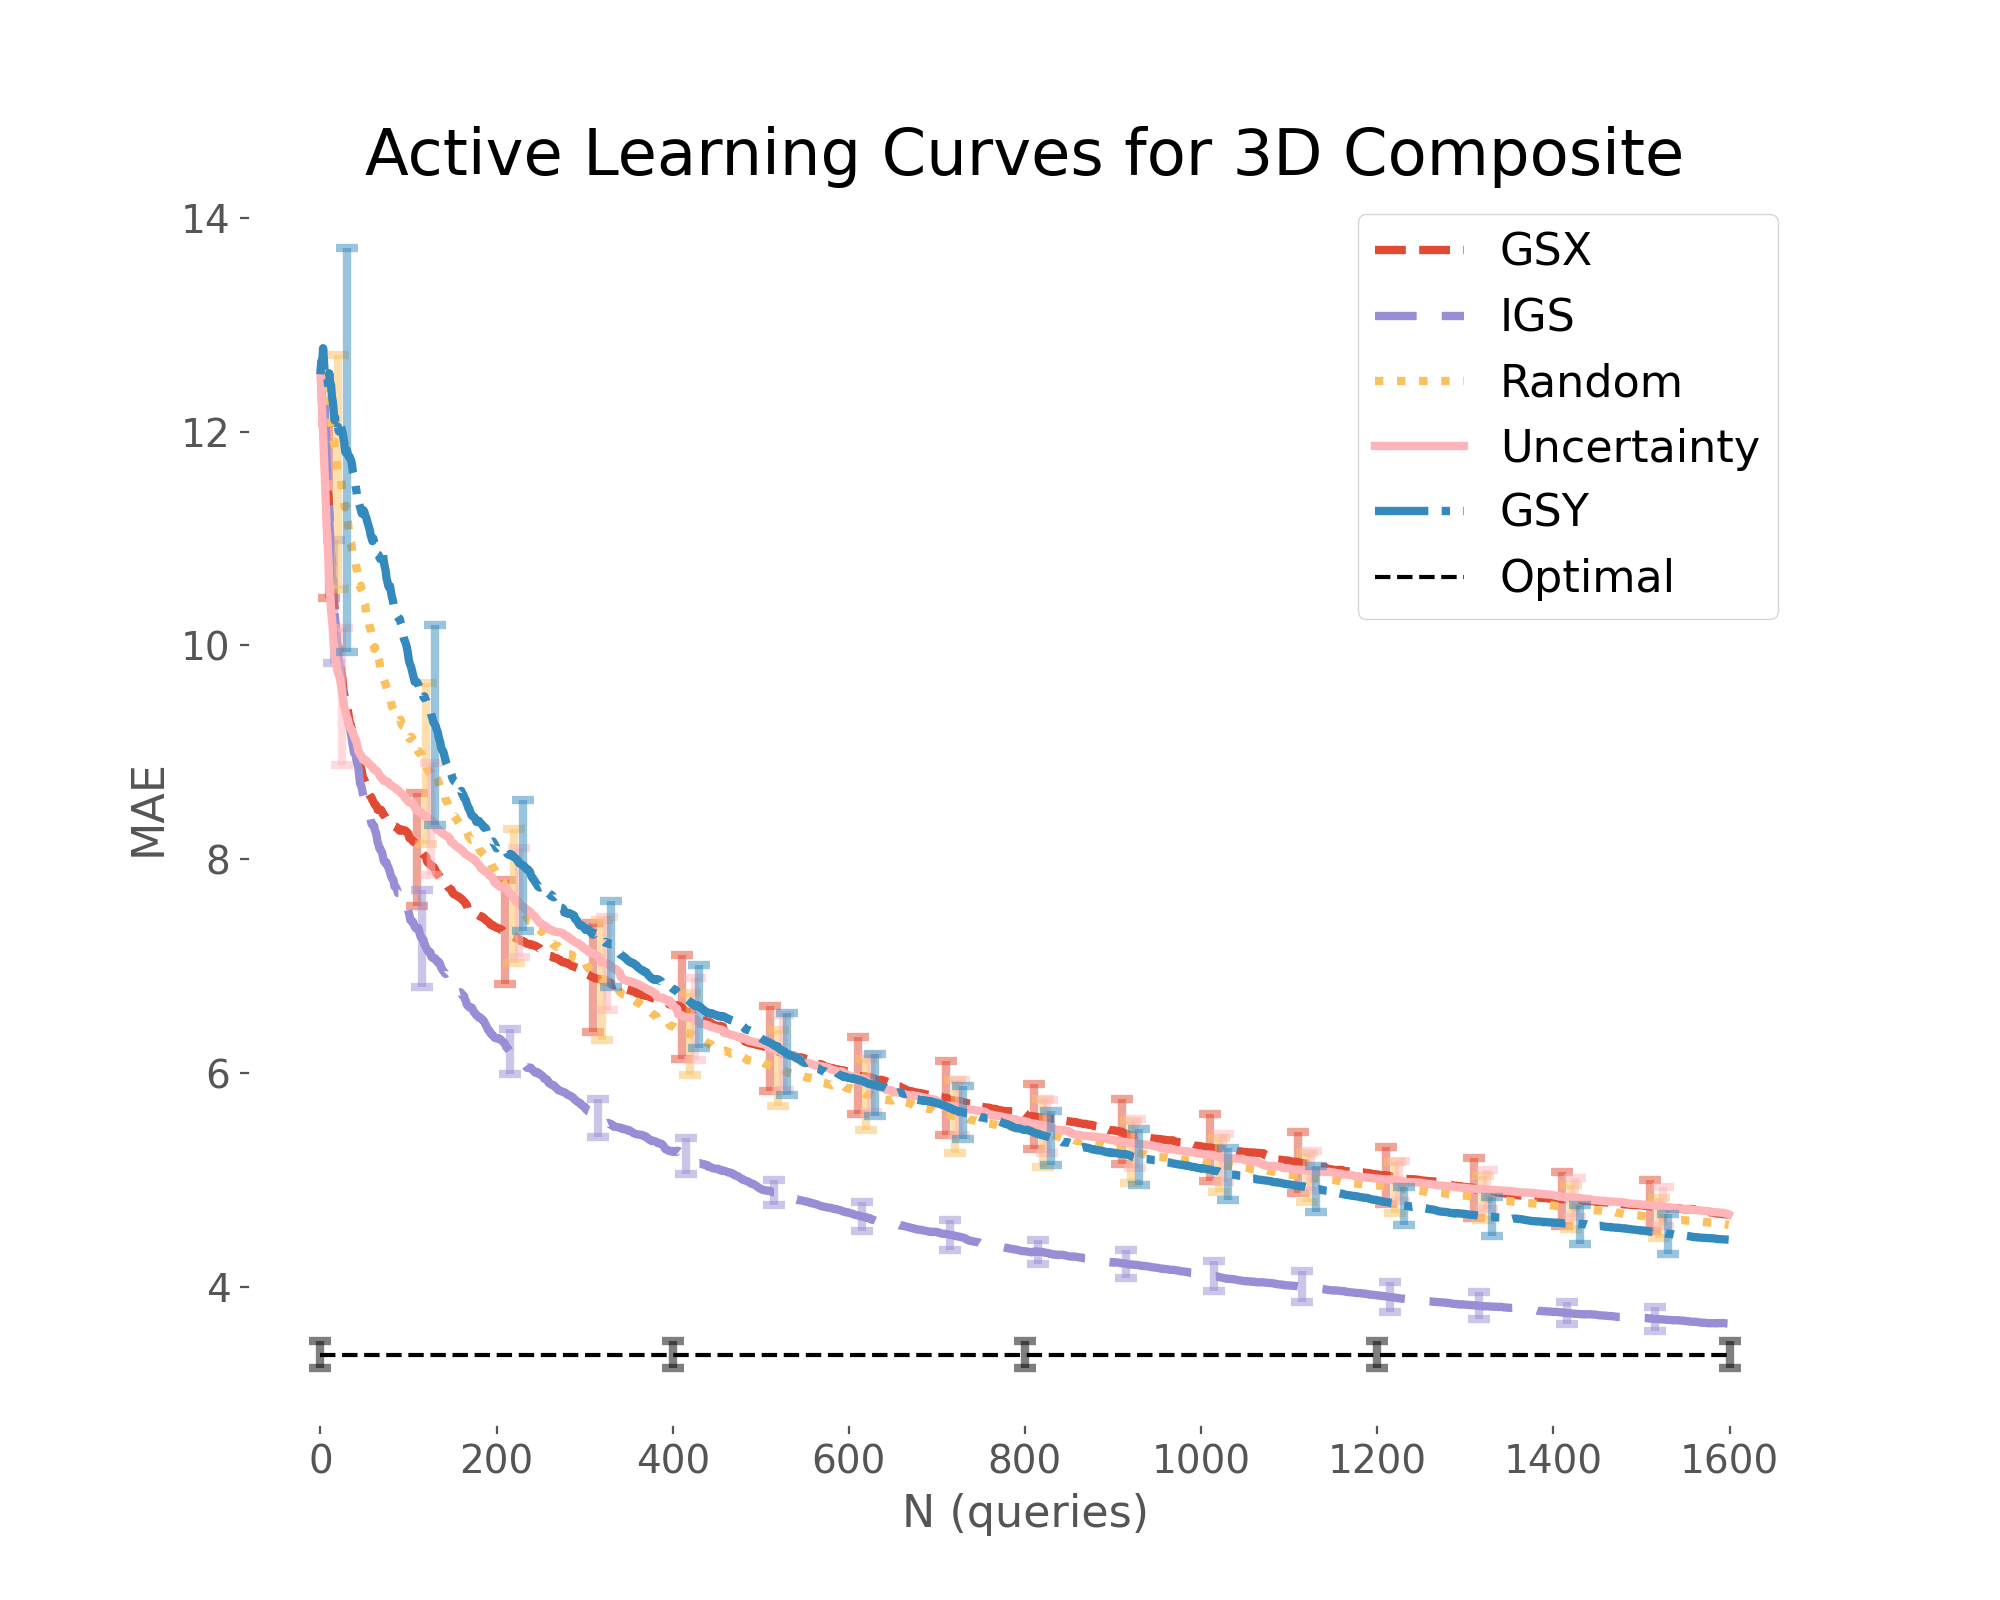
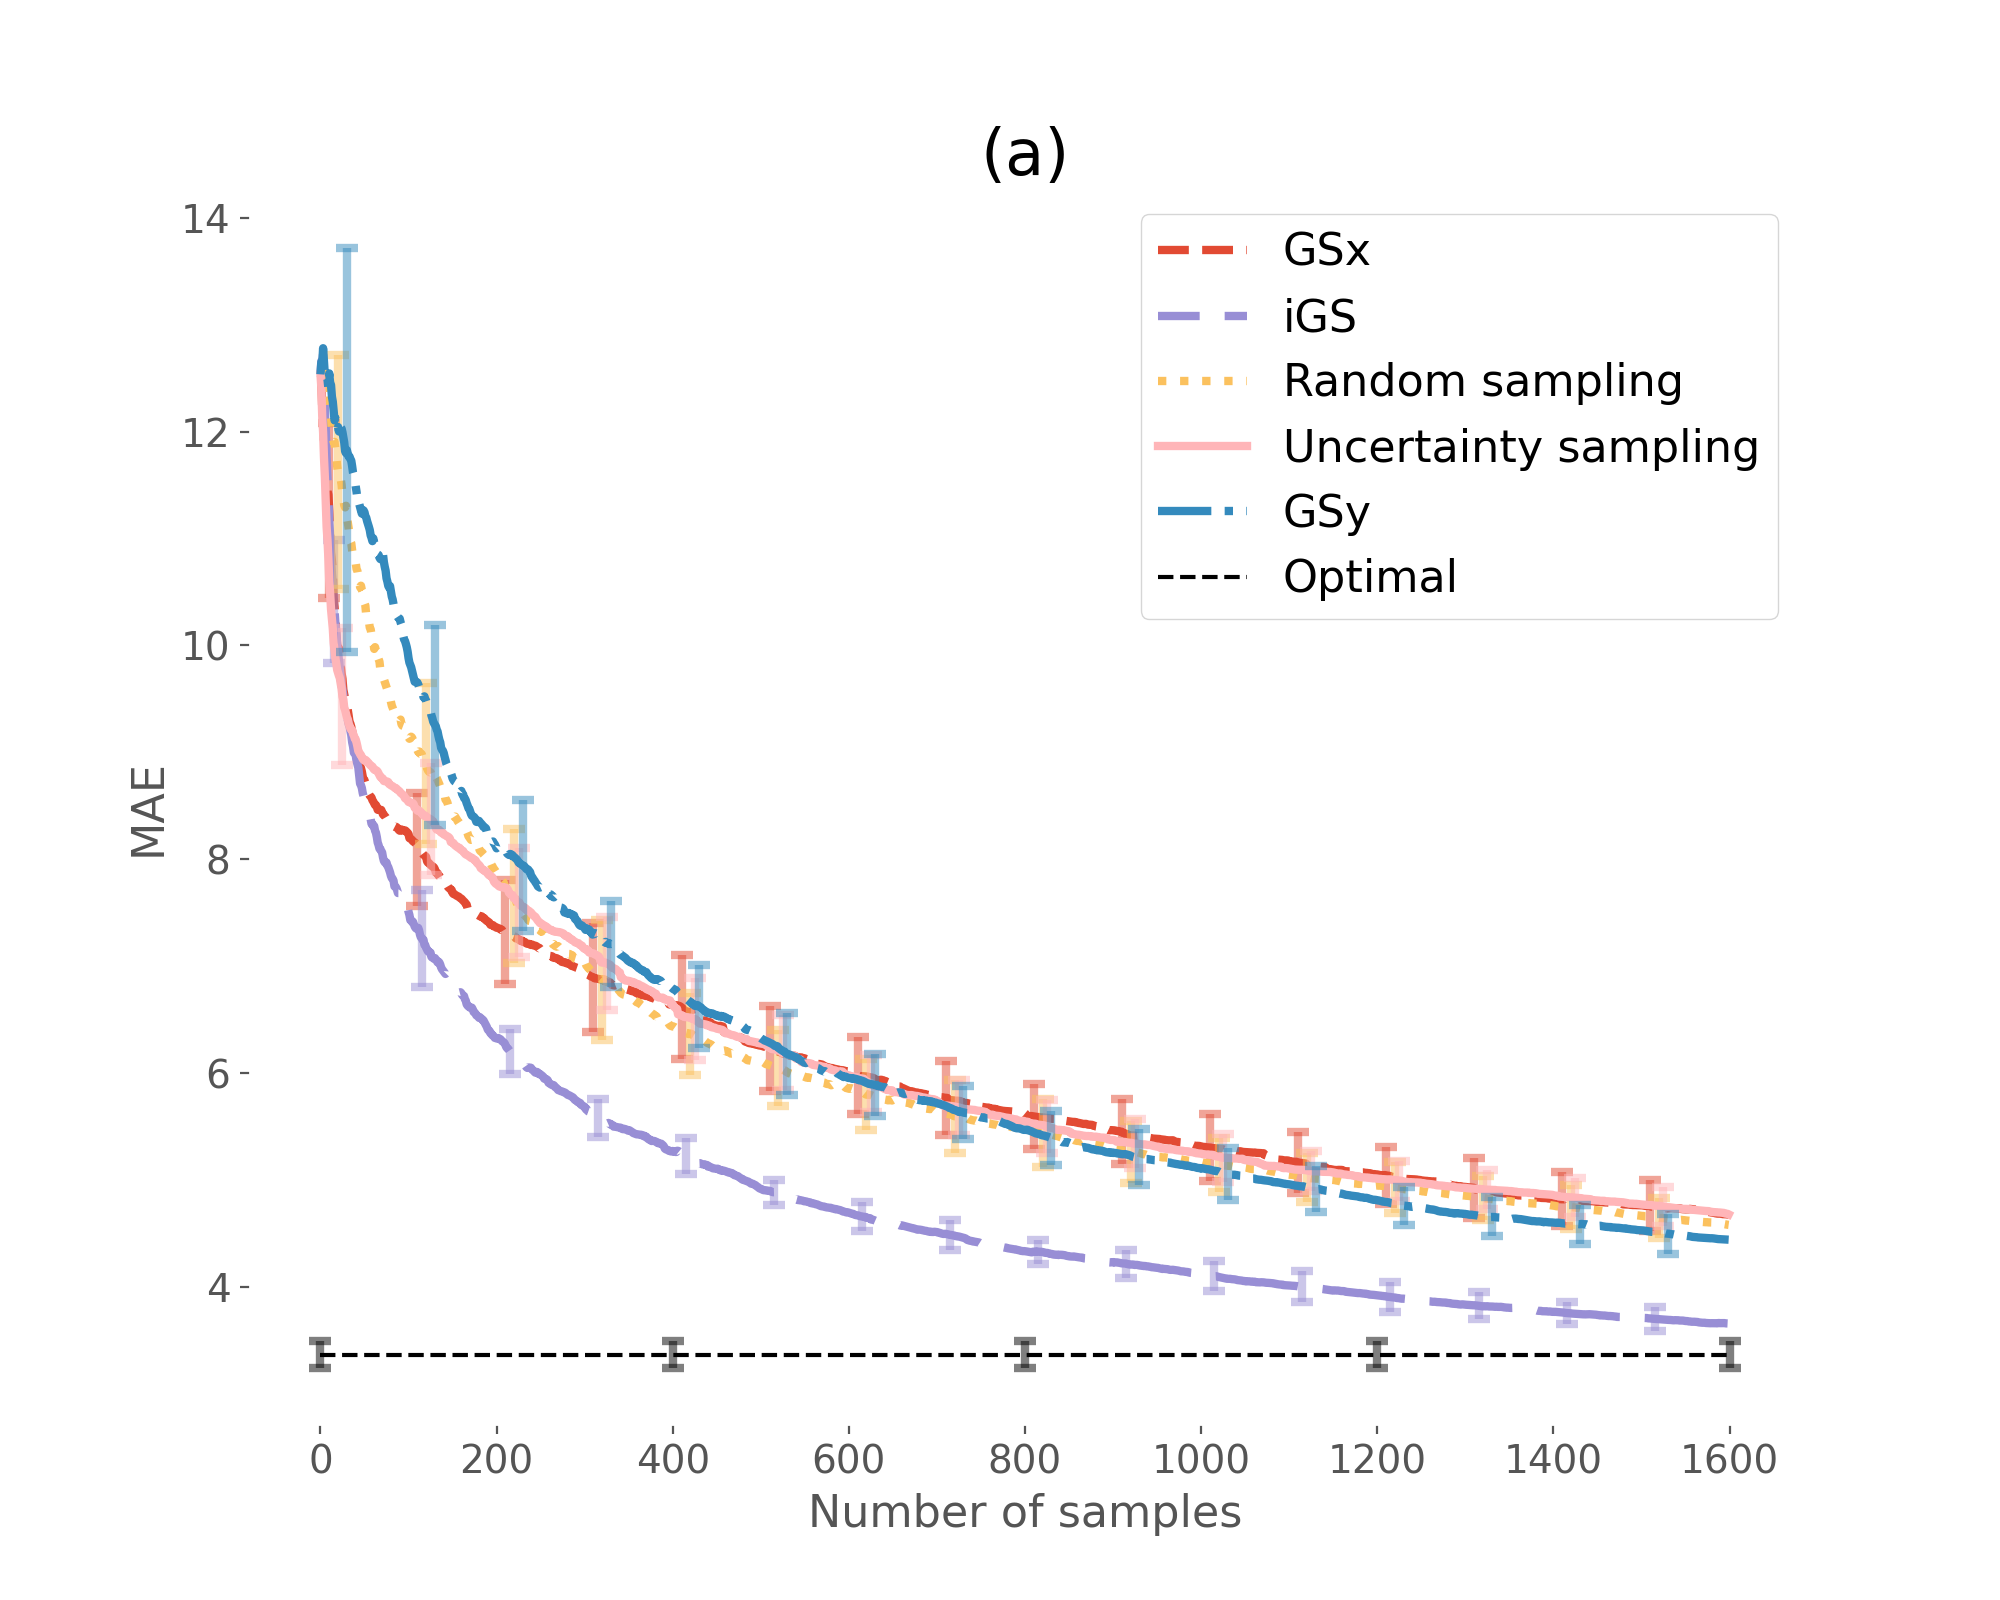
Fix 3D active learning plot for paper

diff --git a/3D/plot.md b/3D/plot.md
@@ -18,6 +18,7 @@ output_file = 'plot.png'
 overall_input_file = "overall-accuracy.npz"
 scoring = 'mse'
 ylog = False
+work_dir = "."
 ```
 
 ```python
@@ -25,6 +26,7 @@ import numpy as np
 from toolz.curried import merge_with
 import matplotlib.pyplot as plt
 import matplotlib
+import os
 ```
 
 
@@ -39,11 +41,11 @@ def plot_scores(scores, opt=None, opt_error=None, error_freq=20, scoring='mse', 
     ax = plt.gca()
     matplotlib.rc('font', **dict(size=16))
     names = dict(
-        uncertainty=('Uncertainty', 'solid'),
-        random=("Random", 'dotted'),
-        gsx=("GSX", 'dashed'),
-        gsy=("GSY", 'dashdot'),
-        igs=("IGS", (5, (10, 3)))
+        uncertainty=('Uncertainty sampling', 'solid'),
+        random=("Random sampling", 'dotted'),
+        gsx=("GSx", 'dashed'),
+        gsy=("GSy", 'dashdot'),
+        igs=("iGS", (5, (10, 3)))
     )
 
     offset = 10
@@ -74,7 +76,7 @@ def plot_scores(scores, opt=None, opt_error=None, error_freq=20, scoring='mse', 
         ax.errorbar(xx, yy, yerr=ee, alpha=0.5, ls='none', ecolor=p[-1].get_color(), elinewidth=3, capsize=4, capthick=3)
 
     plt.legend(fontsize=16)
-    plt.xlabel('N (queries)', fontsize=16)
+    plt.xlabel('Number of samples', fontsize=16)
     ylabel = dict(mse=r'MSE', mae=r'MAE', r2=r'$R^2$')[scoring]
     plt.ylabel(ylabel, fontsize=16)
     
@@ -87,9 +89,10 @@ def plot_scores(scores, opt=None, opt_error=None, error_freq=20, scoring='mse', 
 
 ```python
 output = dict()
-for k in ['gsx', 'igs', 'random', 'uncertainty, 'gsy']:
-    output[k] = np.load(k + '-curve.npz')
-
+for k in ['gsx', 'igs', 'random', 'uncertainty', 'gsy']:
+    output[k] = np.load(os.path.join(work_dir, k + '-curve.npz'))
+print(output.keys())
+```
 
 ```python
 overall_scores = np.load(overall_input_file)['test_scores']
@@ -99,7 +102,7 @@ err = np.std(overall_scores)
 
 ```python
 plt, ax = plot_scores(output, error_freq=100, opt=opt, opt_error=err, scoring=scoring, ylog=ylog)
-plt.title('Active Learning Curves for 3D Composite')
+plt.title('(a)')
 plt.savefig(output_file, dpi=200)
 ```
 
